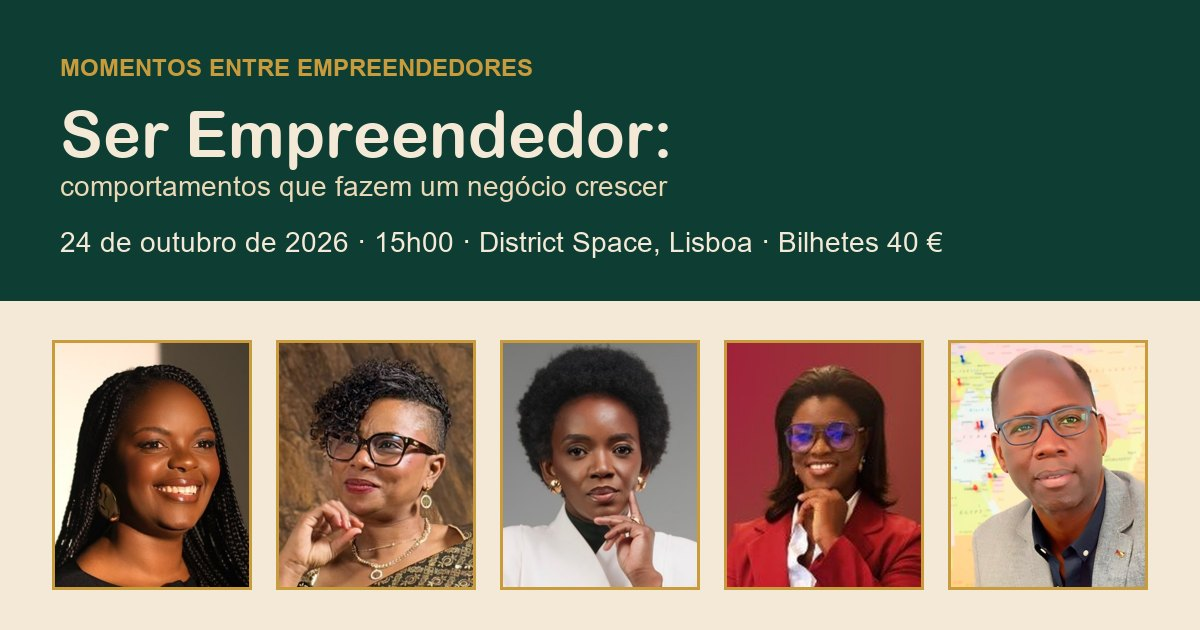
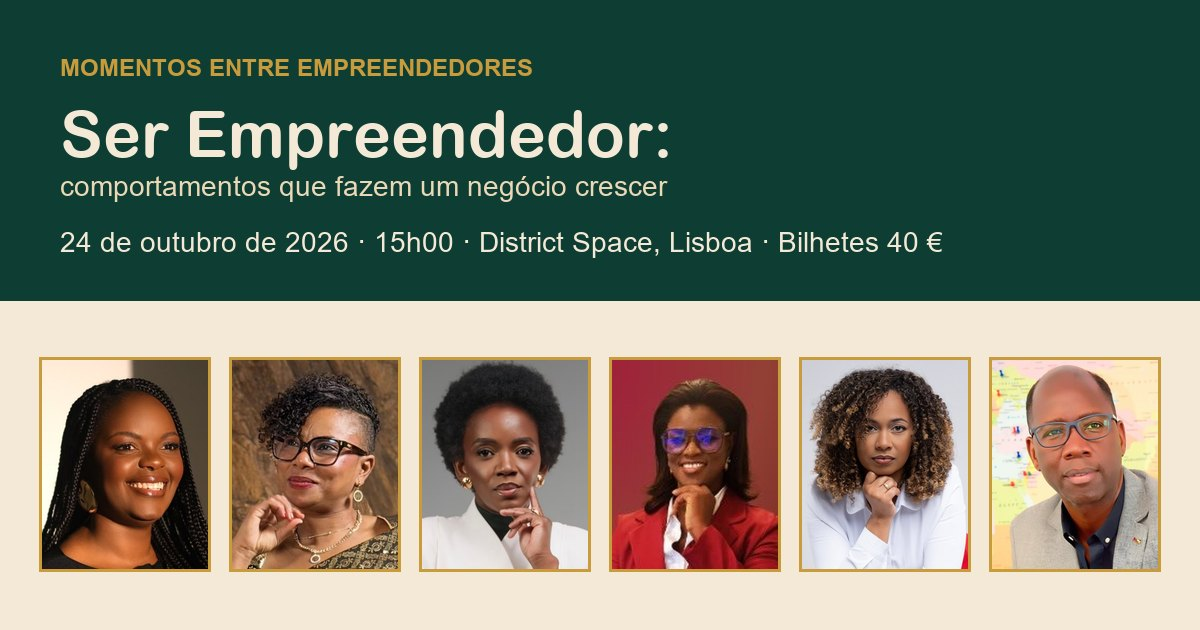
feat(site): Drielly Jesus entre as presenças confirmadas do Momentos
Pedido da Lúcia (20/10): a sexta oradora. Cartão com a foto do perfil dela no
Instagram (recorte 4:5) e o texto da bio, a seguir à Sollange; grelha dos
oradores em 6 colunas (3 até 1280 px, 2 e 1 no telemóvel); programa e
imagem de partilha com as seis presenças.

diff --git a/public/momentos/index.html b/public/momentos/index.html
@@ -14,7 +14,7 @@
 <meta property="og:locale" content="pt_PT">
 <meta property="og:site_name" content="LC Office Consulting">
 <meta property="og:title" content="Momentos entre Empreendedores · 24 de outubro, Lisboa">
-<meta property="og:description" content="Ser Empreendedor: comportamentos que fazem um negócio crescer. Uma tarde no District Space com Lúcia Cílio, Rita Évora dos Santos, Florência Dias, Sollange Binhã e Luís Sinate. Bilhetes a 40 €.">
+<meta property="og:description" content="Ser Empreendedor: comportamentos que fazem um negócio crescer. Uma tarde no District Space com Lúcia Cílio, Rita Évora dos Santos, Florência Dias, Sollange Binhã, Drielly Jesus e Luís Sinate. Bilhetes a 40 €.">
 <meta property="og:url" content="https://lucia-cilio-platform.vercel.app/momentos/">
 <meta property="og:image" content="https://lucia-cilio-platform.vercel.app/momentos/og.jpg">
 <meta property="og:image:width" content="1200">
@@ -180,8 +180,8 @@ section { padding-block: 84px }
 .programa .nota { margin-top: 34px; font-size: 13px; color: var(--on-green-muted) }
 
 /* Oradores */
-.oradores-grid { display: grid; grid-template-columns: repeat(5, 1fr); gap: 16px }
-@media (max-width: 1100px) { .oradores-grid { grid-template-columns: repeat(3, 1fr) } }
+.oradores-grid { display: grid; grid-template-columns: repeat(6, 1fr); gap: 16px }
+@media (max-width: 1280px) { .oradores-grid { grid-template-columns: repeat(3, 1fr) } }
 @media (max-width: 640px) { .oradores-grid { grid-template-columns: 1fr 1fr } }
 @media (max-width: 420px) { .oradores-grid { grid-template-columns: 1fr } }
 .orador { background: linear-gradient(180deg, #FFFDF8, var(--cream-2)); border: 1px solid rgba(14,61,51,.08); border-radius: 20px; overflow: hidden; display: flex; flex-direction: column; min-width: 0; box-shadow: 0 30px 60px -36px rgba(10,46,39,.45), 0 6px 14px -8px rgba(10,46,39,.1); transition: transform .6s cubic-bezier(.2,.8,.2,1), box-shadow .6s }
@@ -394,7 +394,7 @@ footer .fl { display: flex; flex-wrap: wrap; gap: 18px }
       </div>
       <ol class="timeline" style="margin:0;padding:0;list-style:none">
         <li class="step"><div class="hora">15h00 <small>Receção</small></div><h3>Chegada e boas-vindas</h3><p>Receção dos participantes no District Space e abertura do encontro.</p></li>
-        <li class="step"><div class="hora">Talks</div><h3>Palestras para empreendedores</h3><p>Lúcia Cilio, Rita Évora dos Santos, Florência Dias, Sollange Binhã e o Prof. Luís Sinate.</p></li>
+        <li class="step"><div class="hora">Talks</div><h3>Palestras para empreendedores</h3><p>Lúcia Cilio, Rita Évora dos Santos, Florência Dias, Sollange Binhã, Drielly Jesus e o Prof. Luís Sinate.</p></li>
         <li class="step"><div class="hora">Pitches</div><h3>Apresentações de negócios</h3><p>Empreendedores apresentam o seu negócio em até cinco minutos.</p></li>
         <li class="step"><div class="hora">19h30 <small>Fecho</small></div><h3>Cocktail e networking</h3><p>Conversas, contactos e o fecho da tarde.</p></li>
       </ol>
@@ -448,6 +448,16 @@ footer .fl { display: flex; flex-wrap: wrap; gap: 18px }
             <p>Atua na comunicação e no desenvolvimento pessoal: ajuda pessoas a comunicar com mais confiança e a fortalecer o seu posicionamento.</p>
             <ul><li>Comunicação autêntica</li><li>Desenvolvimento pessoal e carreira</li><li>Posicionamento no mercado</li></ul>
             <a class="ig" href="https://www.instagram.com/sousollangebinha/" target="_blank" rel="noopener"><svg class="ico" style="width:16px;height:16px"><use href="#i-ig"/></svg>@sousollangebinha</a>
+          </div>
+        </article>
+        <article class="orador">
+          <figure><img src="img/drielly.jpg" alt="Drielly Jesus" width="560" height="700" loading="lazy"></figure>
+          <div class="body">
+            <span class="area">Mentoria</span>
+            <h3>Drielly Jesus</h3>
+            <p>Mentora: ajuda mulheres a posicionarem-se na vida e nos negócios e a sustentarem os resultados que desejam.</p>
+            <ul><li>Mentora de mulheres empreendedoras</li><li>Posicionamento na vida e nos negócios</li><li>Resultados que se sustentam</li></ul>
+            <a class="ig" href="https://www.instagram.com/driellyjesusmentora/" target="_blank" rel="noopener"><svg class="ico" style="width:16px;height:16px"><use href="#i-ig"/></svg>@driellyjesusmentora</a>
           </div>
         </article>
         <article class="orador">
